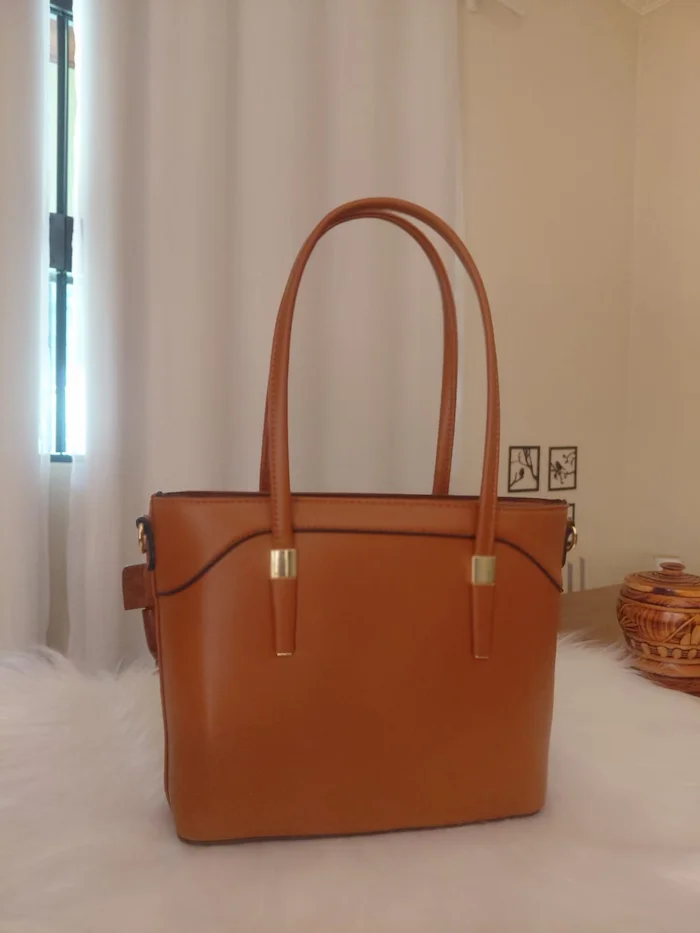
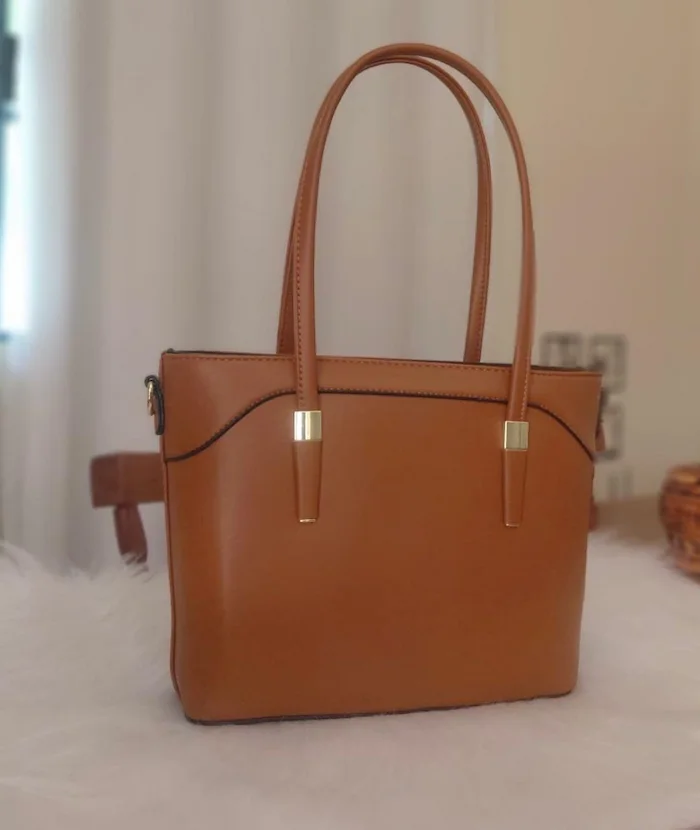
alterar

diff --git a/src/components/SaleSection.tsx b/src/components/SaleSection.tsx
@@ -96,10 +96,17 @@ const saleProducts = [
 
   {
     id: "sale-7",
+    name: "BOLSA TOTE GRANDE E MÉDIA  🧡🖤",
+    price: " P R$ 99,00 - M R$ 129,00",
+
+    images: [ bag17, bag18],
+  },
+  {
+    id: "sale-9",
     name: "BOLSA TOTE GRANDE, MÉDIA E PEQUENA 🧡🖤",
     price: " P R$ 99,00 - M R$ 129,00 -  G R$ 149,00",
 
-    images: [bag16, bag17, bag18],
+    images: [bag16,],
   },
   {
     id: "sale-8",
@@ -108,7 +115,7 @@ const saleProducts = [
     price: "R$ 139,90",
     // description:
     //   " Bolsa Tote pequena, acessório atemporal que combina facilmente com diversos estilos, do casual ao formal. Versátil e elegante, é ideal para diferentes ocasiões. ",
-    images: [bag19, bag20, bag21, bag22],
+    images: [bag20, bag21, bag22],
   },
 ];
 